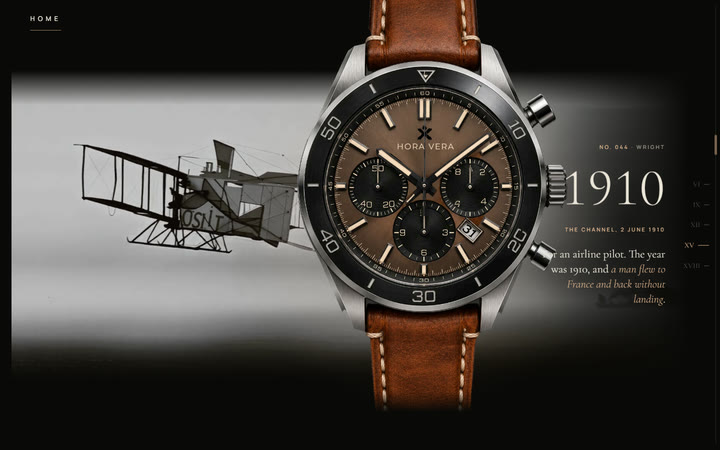
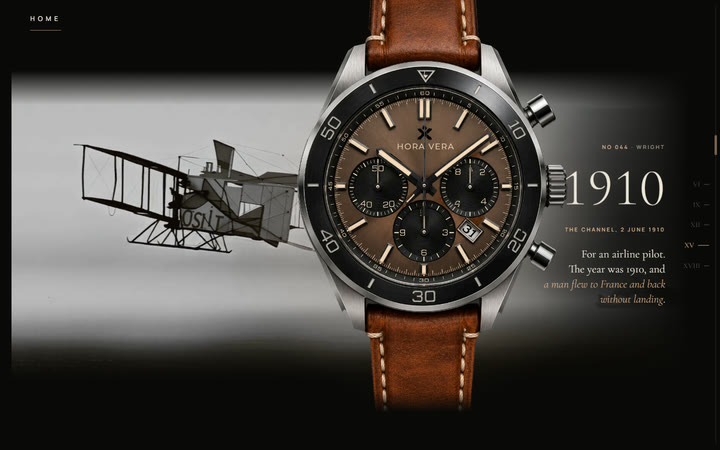
Aggiornamento del sito d'esempio (con intestazione per il telefono)

Changed region(s): [[0.7639, 0.56, 0.9472, 0.6844], [0.825, 0.3111, 0.8556, 0.3422]]

diff --git a/siti/horavera/lingua-en.js b/siti/horavera/lingua-en.js
@@ -9,7 +9,7 @@
    solco = cut; quadrante a raggi = sunray dial; contatori = counters; indici = hour markers; lunetta = bezel; secondi piccoli = small seconds;
    cassa = case; bracciale = bracelet; cinturino = strap; subacqueo = diver.
    I NOMI: HORA VERA non si traduce; HOME resta HOME; i nomi degli orologi (Sobieski, Wanli, Patavium…) e i tempi musicali (Largo, Andante…) restano.
-   Le città hanno il nome inglese (Venezia → Venice, Siviglia → Seville, Parigi → Paris, Pechino → Beijing, Padova → Padua). «N. 036» → «No. 036».
+   Le città hanno il nome inglese (Venezia → Venice, Siviglia → Seville, Parigi → Paris, Pechino → Beijing, Padova → Padua). «N. 036» → «No 036» (senza punto, all'inglese: con il punto andava a capo nel registro).
    I numeri: 21.600 → 21,600; 0,08 → 0.08 (la virgola dei decimali diventa punto). Le ore restano sulle 24 (07:12).
    «frasi»: la frase italiana esatta (un pezzo di testo tra due segni, così com'è nella pagina) → l'inglese. Una frase nuova nella pagina = una riga qui. */
 (() => {
@@ -117,7 +117,7 @@
     'Brescia, 26 marzo 1927': 'Brescia, 26 March 1927', 'Parigi, estate 1925': 'Paris, summer 1925',
     "Per un allevatore di cavalli. Volgeva l'anno 1683, e": 'For a horse breeder. The year was 1683, and', 'la cavalleria scendeva dalla collina': 'the cavalry was coming down the hill',
     "Per un maestro di spada. Volgeva l'anno 1580, e": 'For a master of the sword. The year was 1580, and', 'una lama era ancora una disciplina': 'a blade was still a discipline',
-    "Per un pilota di linea. Volgeva l'anno 1910, e": 'For an airline pilot. The year was 1910, and', 'si andava in Francia e si tornava senza posarsi': 'a man flew to France and back without landing',
+    "Per un pilota di linea. Volgeva l'anno 1910, e": 'For an airline pilot. The year was 1910, and', 'si andava in Francia e si tornava senza posarsi': 'a man flew to France and back without landing',
     "Per una guida alpina. Volgeva l'anno 1911, e": 'For a mountain guide. The year was 1911, and', 'si arrivava dove ogni direzione è nord': 'men reached the place where every direction is north',
     "Per una velista oceanica. Volgeva l'anno 1522, e": 'For an ocean sailor. The year was 1522, and', 'tornava la nave che aveva fatto il giro del mondo': 'the ship that had sailed round the world was coming home',
     "Per un astronomo. Volgeva l'anno 1610, e": 'For an astronomer. The year was 1610, and', 'la luna mostrava le sue montagne': 'the moon was showing its mountains',
@@ -168,7 +168,7 @@
     'Montare': 'Assembling', 'Guardare': 'Looking', 'Regolare': 'Regulating', 'Incidere': 'Engraving',
     '· Montare': '· Assembling', '· Guardare': '· Looking', '· Regolare': '· Regulating', '· Incidere': '· Engraving',
     'scorri, e i pezzi entrano nella cassa': 'scroll, and the parts go into the case', 'la lente: passa con il mouse e cerca': 'the loupe: move the mouse and look',
-    "scorri: la punta sposta l'ago": 'scroll: the point moves the index', 'scorri: giri il tornio': 'scroll: you turn the rose engine',
+    "scorri: la punta sposta l'ago": 'scroll: the point moves the index', 'scorri: giri il tornio': 'scroll: turn the lathe',
 
     /* ---------- L'ATELIER · α Montare (i testi tecnici: un fatto per frase, i termini del mestiere) ---------- */
     'Duecentosettanta giorni': 'Two hundred and seventy days', 'per un orologio.': 'for one watch.',
@@ -287,10 +287,10 @@
     [/^A (.+) (sorge il sole|tramonta il sole|è mezzogiorno vero)\.$/, m => CITTA[m[1]] && dove(m[1]) + ' ' + SUCCEDE[m[2]] + '.'],
     [/^qui sono le (\d{2}:\d{2})$/, m => 'here it is ' + m[1]],
     [/^sono le (\d{2}:\d{2}) a (.+)$/, m => CITTA[m[2]] && 'it is ' + m[1] + ' in ' + CITTA[m[2]]],
-    [/^(N\. \d+|Il protagonista) · (.+)$/, m => (m[1] === 'Il protagonista' ? 'The protagonist' : 'No.' + m[1].slice(2)) + ' · ' + (F[m[2]] || m[2])],   // «N. 036 · Wanli»
+    [/^(N\. \d+|Il protagonista) · (.+)$/, m => (m[1] === 'Il protagonista' ? 'The protagonist' : 'No' + m[1].slice(2)) + ' · ' + (F[m[2]] || m[2])],   // «N. 036 · Wanli»
     [/^(.+), (.+)$/, m => CITTA[m[1]] && (NOMI.includes(m[2]) || F[m[2]]) ? CITTA[m[1]] + ', ' + (F[m[2]] || m[2]) : undefined],          // la casella per chi non vede: «Venezia, Patavium»
-    [/^N\. (\d+)$/, m => 'No. ' + m[1]],
-    [/^Ref\. (\d{4}) · N\. (\d+)$/, m => 'Ref. ' + m[1] + ' · No. ' + m[2]],
+    [/^N\. (\d+)$/, m => 'No ' + m[1]],
+    [/^Ref\. (\d{4}) · N\. (\d+)$/, m => 'Ref. ' + m[1] + ' · No ' + m[2]],
     [/^· (.+) · (\d+) di (\d+)$/, m => F[m[1]] && '· ' + F[m[1]] + ' · ' + m[2] + ' of ' + m[3]],                                     // «· Rubino e oro · 1 di 8»
     [/^(\d+) di (\d+)$/, m => m[1] + ' of ' + m[2]],
     [/^Dal (\d{4}) al (\d{4})$/, m => 'From ' + m[1] + ' to ' + m[2]],
